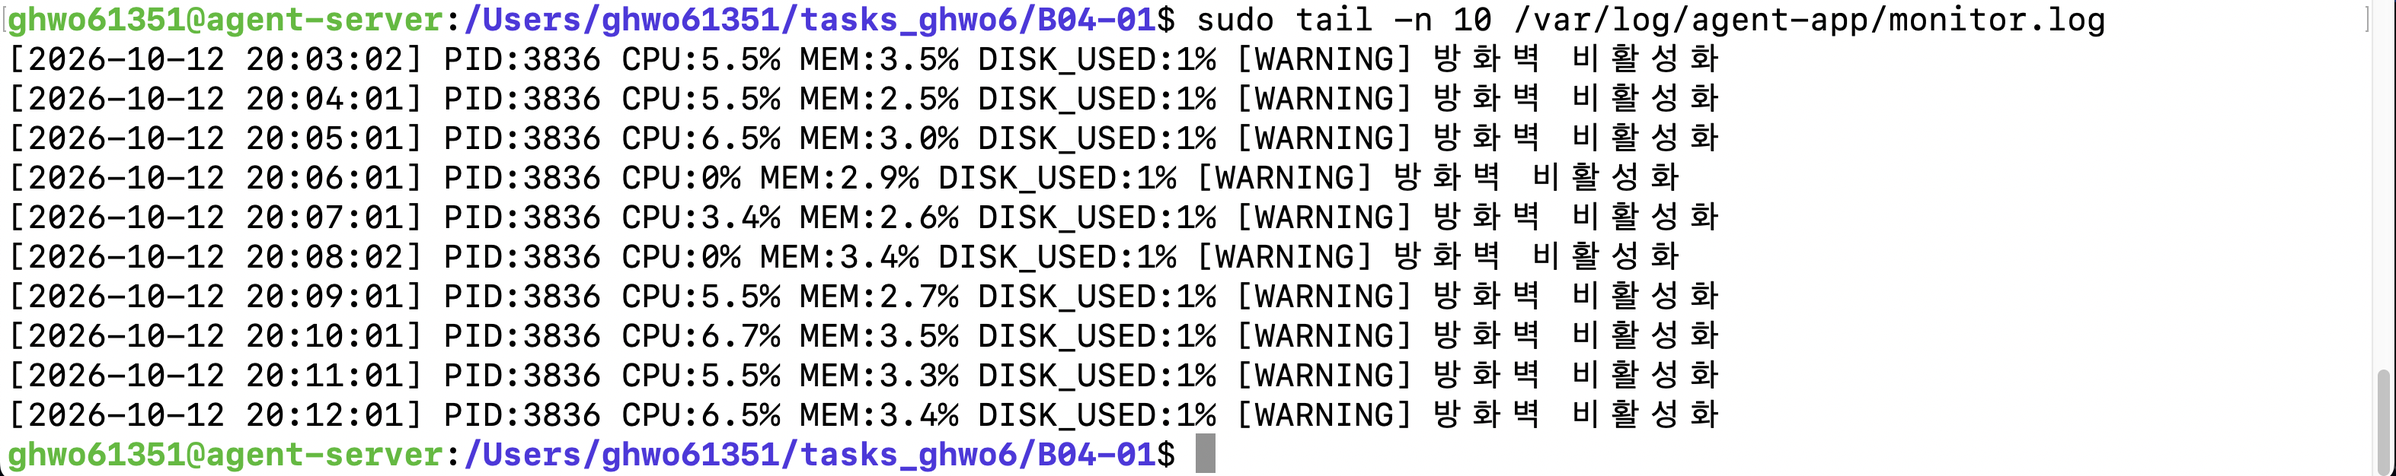
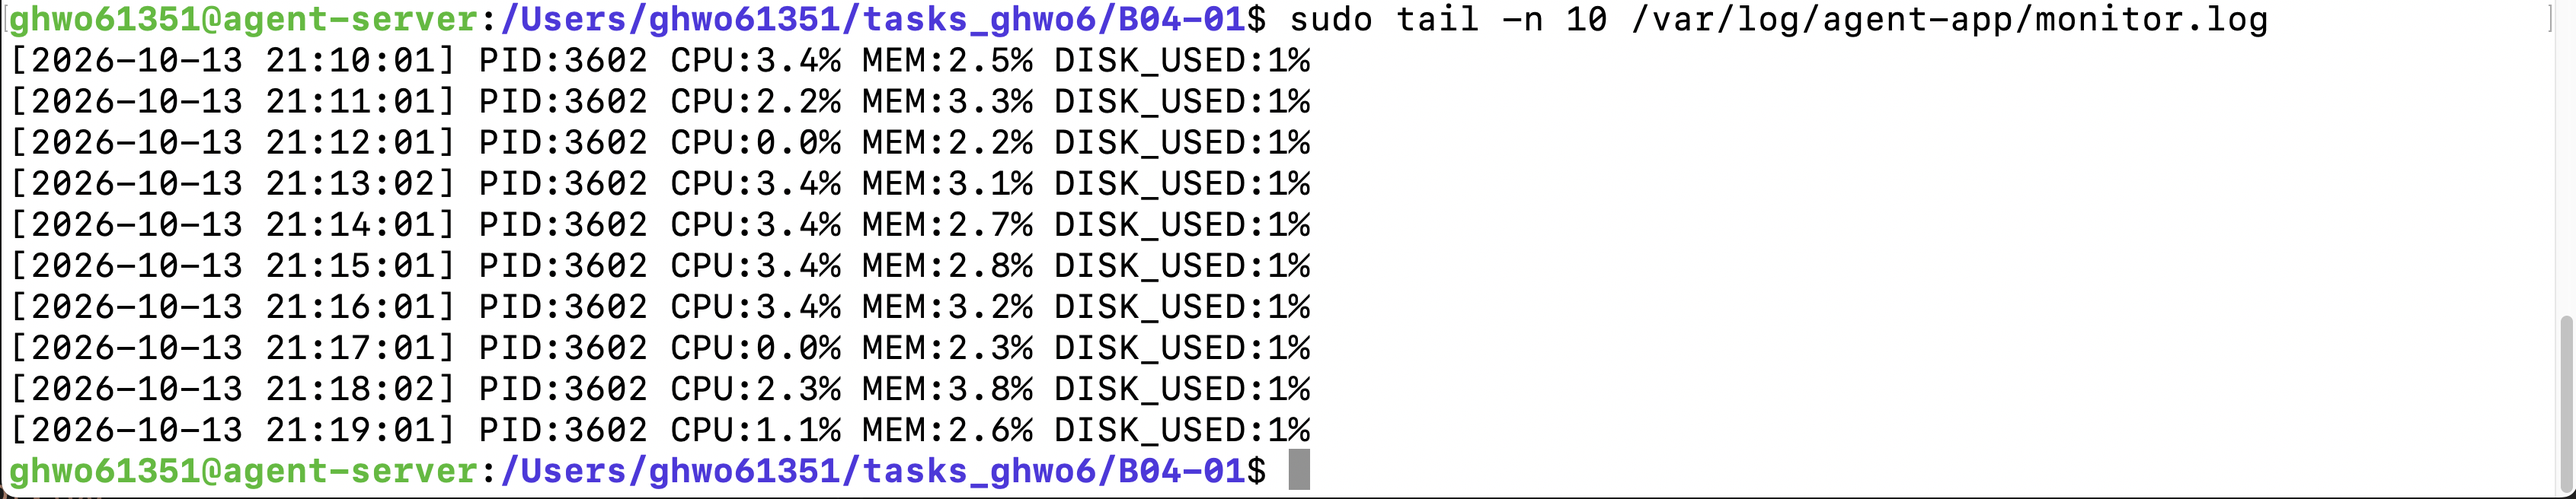
보안 문제 해결

Changed region(s): [[0.0, 0.0, 1.0, 1.0]]

diff --git a/tasks_log.md b/tasks_log.md
@@ -15,10 +15,15 @@ sudo apt update && sudo apt install openssh-server ufw acl -y
 ```
 
 ### sudo vim /etc/ssh/sshd_config에서 #Port 22를 Port 20022로 바꾼다.
-(주석인 #Port 22 를 Port 20022로 바꾼것)
 
 ```bash
 sudo vim /etc/ssh/sshd_config
+```
+
+```vim
+#Port 22 -> Port 20022
+#PermitRootLogin prohibit-password -> PermitRootLogin no 로 바꾼다.
+
 ```
 
 ### ssh 설정을 적용하기 위해서 sudo systemctl restart ssh를 입력함
@@ -81,11 +86,18 @@ id agent-admin; id agent-dev; id agent-test
 
 ```bash
 export AGENT_HOME=/home/agent-admin/agent-app
+
 sudo mkdir -p $AGENT_HOME/upload_files
 sudo mkdir -p $AGENT_HOME/api_keys
 sudo mkdir -p $AGENT_HOME/bin
 sudo mkdir -p /var/log/agent-app
 ```
+
+### (fix) 다른 계정이 agent-admin 홈 아래로 들어갈 수 있게 권한 설정
+```bash
+sudo chmod +x /home/agent-admin
+```
+
 
 ### 소유권과 권한 설정
 
@@ -94,17 +106,22 @@ sudo mkdir -p /var/log/agent-app
 # chown은 소유자를 결정하는것
 # chmod는 접근 권할을 설정하는것
 
+# upload_files: agent-common R/W  → 770 (이전 750에서 변경)
 sudo chown agent-admin:agent-common $AGENT_HOME/upload_files
-sudo chmod 750 $AGENT_HOME/upload_files
+sudo chmod 770 $AGENT_HOME/upload_files
 
+# api_keys: agent-core R/W  → 770 (이전 750에서 변경)
 sudo chown agent-admin:agent-core $AGENT_HOME/api_keys
-sudo chmod 750 $AGENT_HOME/api_keys
+sudo chmod 770 $AGENT_HOME/api_keys
 
+# bin: 스크립트 위치
 sudo chown agent-dev:agent-core $AGENT_HOME/bin
 sudo chmod 750 $AGENT_HOME/bin
 
+# 로그: agent-core R/W  → 770 + ACL
 sudo chown agent-dev:agent-core /var/log/agent-app
-sudo chmod 750 /var/log/agent-app
+sudo chmod 770 /var/log/agent-app
+sudo setfacl -m u:agent-admin:rwx /var/log/agent-app
 
 ```
 
@@ -131,16 +148,16 @@ getfacl /var/log/agent-app
 
 sudo ls -ld $AGENT_HOME/upload_files $AGENT_HOME/api_keys $AGENT_HOME/bin /var/log/agent-app
 
-# drwxr-x--- 1 agent-admin agent-core   20 Oct 11 21:27 /home/agent-admin/agent-app/api_keys
-# drwxr-x--- 1 agent-dev   agent-core   38 Oct 11 22:11 /home/agent-admin/agent-app/bin
-# drwxr-x--- 1 agent-admin agent-common  0 Oct 11 20:25 /home/agent-admin/agent-app/upload_files
-# drwxr-x--- 1 agent-admin agent-core   40 Oct 11 22:10 /var/log/agent-app
+# drwxrwx---  1 agent-admin agent-core   24 Oct 13 20:46 /home/agent-admin/agent-app/api_keys
+# drwxr-x---  1 agent-dev   agent-core    0 Oct 13 20:12 /home/agent-admin/agent-app/bin
+# drwxrwx---  1 agent-admin agent-common  0 Oct 13 20:12 /home/agent-admin/agent-app/upload_files
+# drwxrwx---+ 1 agent-dev   agent-core    0 Oct 13 20:12 /var/log/agent-app
 
 # drwxrwxrwx에서
 # rwx : 7
 # r-x : 5
 # --- : 0
-# 잘 절용됨
+
 ```
 
 
@@ -161,7 +178,7 @@ sudo chmod 640 $AGENT_HOME/api_keys/secret.key
 ```bash
 sudo ls -l $AGENT_HOME/api_keys/secret.key
 
-# -rw-r----- 1 agent-admin agent-core 19 Oct 12 16:17 /home/agent-admin/agent-app/api_keys/secret.key
+# -rw-r----- 1 agent-admin agent-core 19 Oct 13 20:53 /home/agent-admin/agent-app/api_keys/secret.key
 ```
 
 
@@ -222,17 +239,13 @@ sudo ls -al $AGENT_HOME/bin
 # -rwxr-xr-x 1 agent-dev agent-core 6498144 Oct 11 20:59 agent-app
 ```
 
-### (fix) 다른 계정의 폴더에 접근하지 못하는 리눅스 권한 이슈 해결
-
-```bash
-sudo chmod +x /home/agent-admin
-```
-
 
 ### 파일을 실행함
 
 ```bash
-sudo -E -u agent-dev nohup $AGENT_HOME/bin/agent-app > /var/log/agent-app/app.log 2>&1 &
+
+sudo -E -u agent-dev bash -c 'nohup $AGENT_HOME/bin/agent-app > /var/log/agent-app/app.log 2>&1 &'
+# PDF에는 t_secret.key로 되어 있지만, 제공된 앱이 secret.key를 요구해서 secret.key로 생성했다
 
 # sudo -E -u agent-dev $AGENT_HOME/bin/agent-app
 ```
